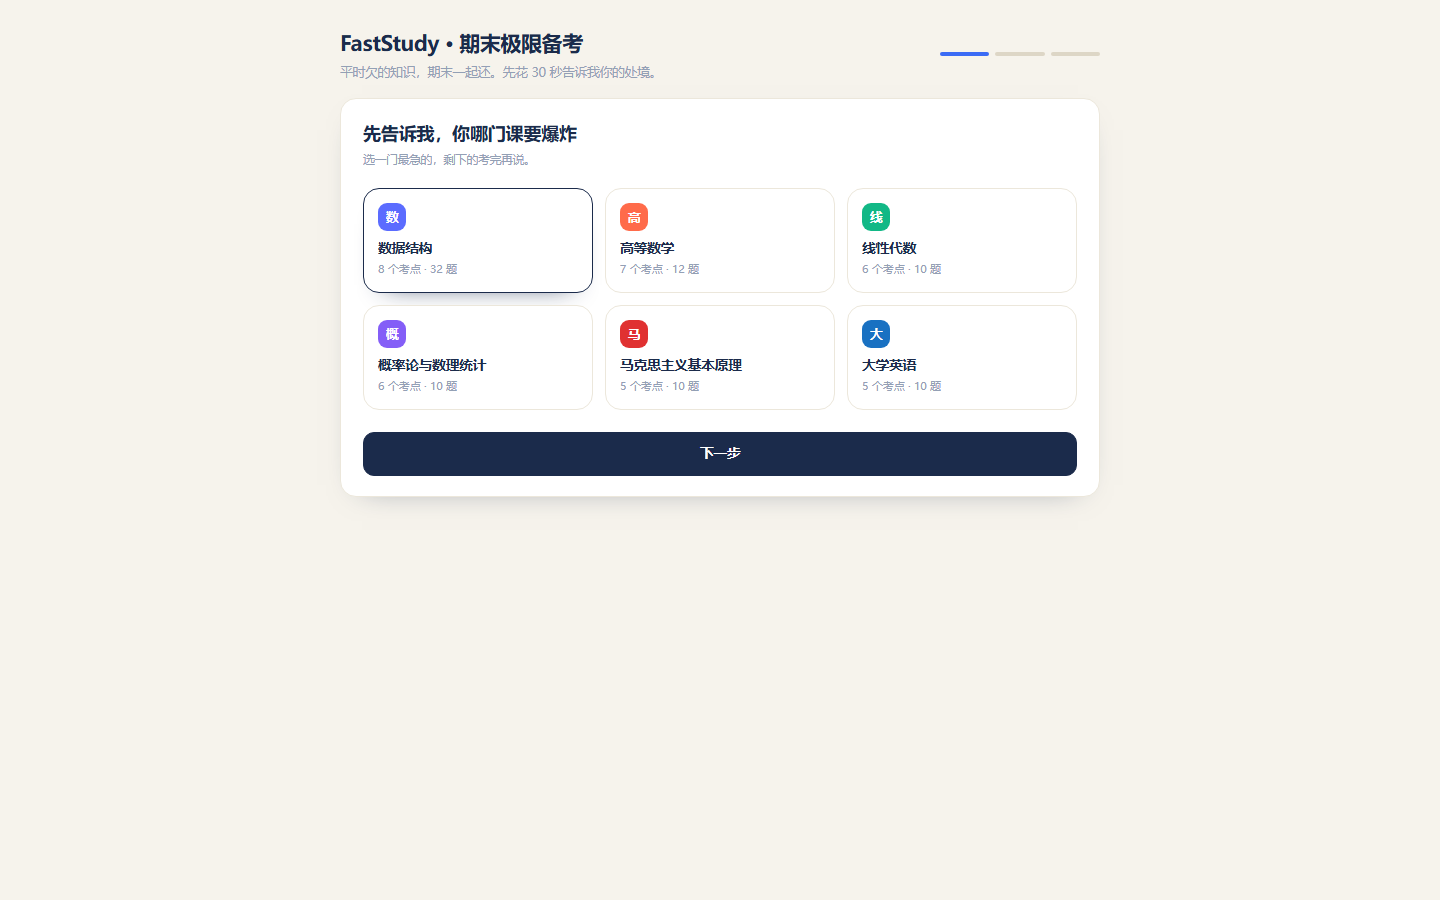
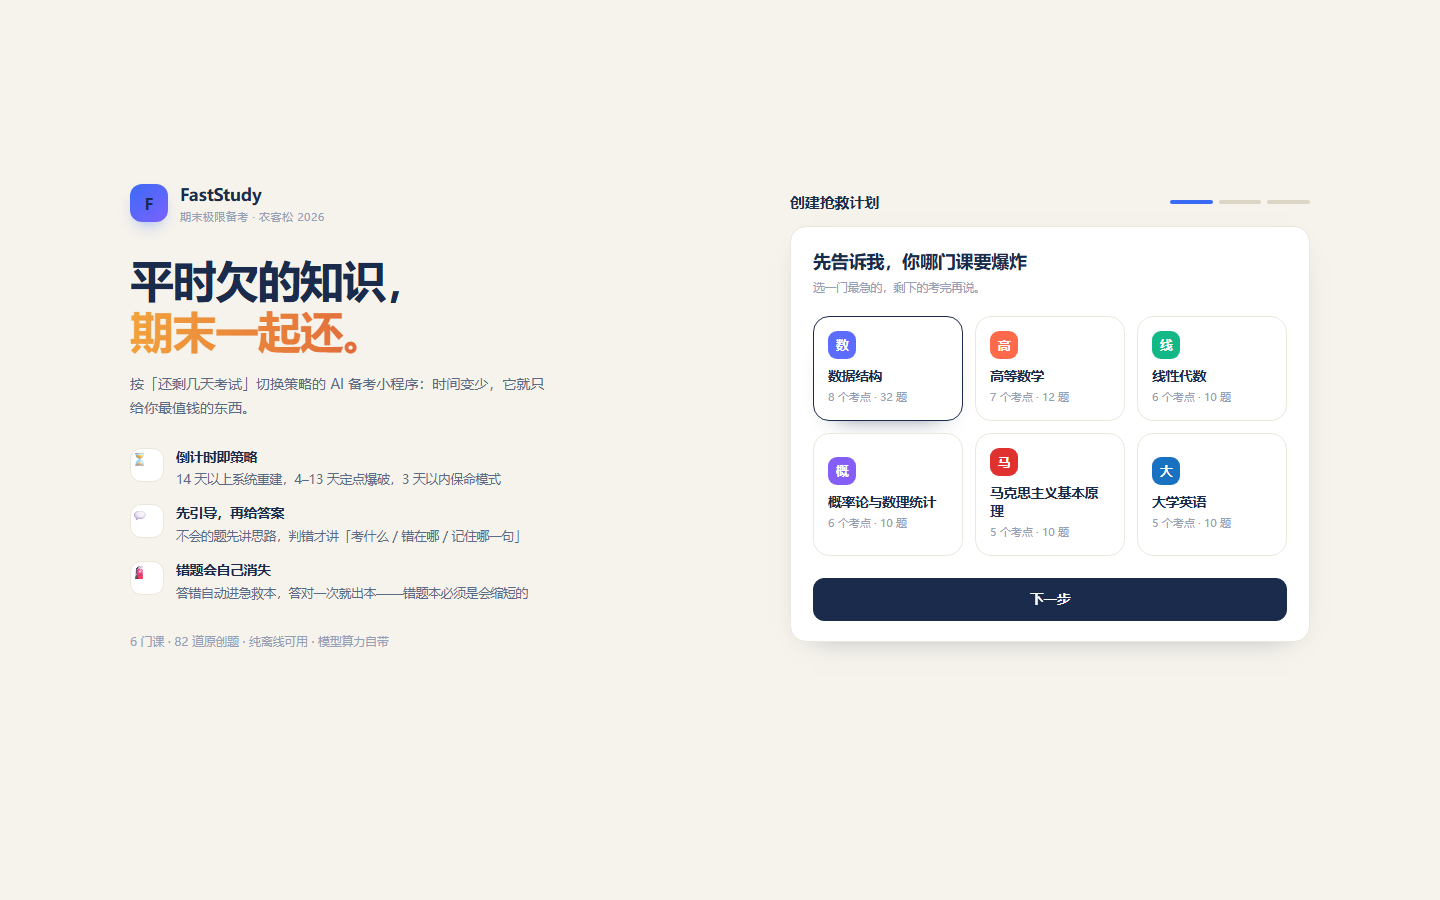
feat(ui): 引导页桌面版加左侧卖点面板（呼应封面图），移动端压缩标题

diff --git a/src/styles.css b/src/styles.css
@@ -1,4 +1,4 @@
-:root {
+:root {
   --bg: #f6f3ec;
   --bg-2: #efeae0;
   --card: #ffffff;
@@ -72,7 +72,7 @@ p {
   margin: 0;
 }
 
-/* ================= 甯冨眬楠ㄦ灦 ================= */
+/* ================= Layout shell ================= */
 .shell {
   display: grid;
   grid-template-columns: 216px minmax(0, 1fr);
@@ -274,7 +274,7 @@ p {
   min-width: 0;
 }
 
-/* ================= 鍗＄墖 ================= */
+/* ================= Cards ================= */
 .card {
   background: var(--card);
   border-radius: var(--r-lg);
@@ -320,7 +320,7 @@ p {
   text-decoration: none;
 }
 
-/* ================= 椤堕儴闂€欙紙灞辫剦妯箙锛?================= */
+/* ================= Hero banner (greeting) ================= */
 .hello {
   position: relative;
   border-radius: var(--r-xl);
@@ -388,7 +388,7 @@ p {
   color: rgba(255, 255, 255, 0.78);
 }
 
-/* ================= 鐜舰杩涘害 ================= */
+/* ================= Donut / legend ================= */
 .donut-wrap {
   display: flex;
   align-items: center;
@@ -431,7 +431,7 @@ p {
   font-variant-numeric: tabular-nums;
 }
 
-/* ================= 浠婃棩浠诲姟 ================= */
+/* ================= Today tasks ================= */
 .task-row {
   display: flex;
   align-items: flex-start;
@@ -510,7 +510,7 @@ p {
   background: linear-gradient(90deg, var(--amber), #ffc978);
 }
 
-/* ================= 鏈€杩戝涔?/ 缁熻 ================= */
+/* ================= Recent & stats ================= */
 .recent {
   display: flex;
   gap: 14px;
@@ -582,7 +582,7 @@ p {
   color: var(--ink-3);
 }
 
-/* ================= 瀛︿範璺緞鏃堕棿杞?================= */
+/* ================= Learning path timeline ================= */
 .path {
   display: flex;
   align-items: flex-start;
@@ -675,7 +675,7 @@ p {
   font-weight: 700;
 }
 
-/* ================= 鎺屾彙搴︽潯 ================= */
+/* ================= Mastery bars ================= */
 .mastery-row {
   display: flex;
   align-items: center;
@@ -716,7 +716,7 @@ p {
   font-variant-numeric: tabular-nums;
 }
 
-/* ================= 鍒楄〃 ================= */
+/* ================= List rows ================= */
 .row-item {
   display: flex;
   align-items: center;
@@ -800,7 +800,7 @@ p {
   color: var(--blue);
 }
 
-/* ================= 鎸夐挳 ================= */
+/* ================= Buttons ================= */
 .btn {
   display: inline-flex;
   align-items: center;
@@ -855,7 +855,7 @@ p {
   box-shadow: none;
 }
 
-/* ================= 寰界珷 / 鎻愮ず ================= */
+/* ================= Pills / notice ================= */
 .pill {
   display: inline-flex;
   align-items: center;
@@ -898,7 +898,7 @@ p {
   line-height: 1.6;
 }
 
-/* ================= 鍒烽 ================= */
+/* ================= Quiz ================= */
 .quiz-shell {
   max-width: 780px;
   margin: 0 auto;
@@ -1121,7 +1121,7 @@ p {
   line-height: 1.65;
 }
 
-/* ================= 寮曞椤?================= */
+/* ================= Onboarding ================= */
 .onboard {
   max-width: 760px;
   margin: 0 auto;
@@ -1297,7 +1297,7 @@ select:focus {
   border-color: var(--navy);
 }
 
-/* ================= 寮€鍏?================= */
+/* ================= Switch ================= */
 .switch {
   width: 44px;
   height: 25px;
@@ -1329,7 +1329,7 @@ select:focus {
   transform: translateX(19px);
 }
 
-/* ================= 鏉傞」 ================= */
+/* ================= Misc (rank / roadmap / empty) ================= */
 .muted {
   color: var(--ink-3);
   font-size: 11.5px;
@@ -1477,7 +1477,136 @@ select:focus {
   }
 }
 
-/* ================= 鍝嶅簲寮?================= */
+/* ================= Onboarding pitch ================= */
+.onboard-grid {
+  display: grid;
+  grid-template-columns: minmax(0, 1fr) 520px;
+  gap: 48px;
+  align-items: center;
+  max-width: 1180px;
+  margin: 0 auto;
+  width: 100%;
+  min-height: calc(100dvh - 120px);
+}
+
+.onboard-pitch {
+  min-width: 0;
+  padding: 8px 0;
+}
+
+.pitch-brand {
+  display: flex;
+  align-items: center;
+  gap: 12px;
+  margin-bottom: 28px;
+}
+
+.pitch-name {
+  font-size: 17px;
+  font-weight: 800;
+  letter-spacing: -0.01em;
+}
+
+.pitch-sub {
+  font-size: 11px;
+  color: var(--ink-3);
+  letter-spacing: 0.04em;
+}
+
+.pitch-title {
+  font-size: 44px;
+  line-height: 1.16;
+  font-weight: 800;
+  letter-spacing: -0.035em;
+  color: var(--navy);
+}
+
+.pitch-title em {
+  font-style: normal;
+  background: linear-gradient(100deg, #f2a33c, #e0653a);
+  -webkit-background-clip: text;
+  background-clip: text;
+  color: transparent;
+}
+
+.pitch-desc {
+  margin-top: 16px;
+  font-size: 14px;
+  color: var(--ink-2);
+  line-height: 1.75;
+  max-width: 420px;
+}
+
+.pitch-list {
+  margin-top: 26px;
+  display: flex;
+  flex-direction: column;
+  gap: 14px;
+}
+
+.pitch-item {
+  display: flex;
+  gap: 12px;
+  align-items: flex-start;
+}
+
+.pitch-ico {
+  width: 34px;
+  height: 34px;
+  border-radius: 11px;
+  background: #fff;
+  border: 1px solid var(--line);
+  display: grid;
+  place-items: center;
+  font-size: 16px;
+  flex: none;
+  box-shadow: var(--shadow);
+}
+
+.pitch-item b {
+  display: block;
+  font-size: 13.5px;
+  color: var(--navy);
+}
+
+.pitch-item span {
+  display: block;
+  font-size: 12.5px;
+  color: var(--ink-2);
+  line-height: 1.6;
+  margin-top: 1px;
+}
+
+.pitch-foot {
+  margin-top: 30px;
+  font-size: 11.5px;
+  color: var(--ink-3);
+  letter-spacing: 0.02em;
+}
+
+.only-mobile {
+  display: none;
+}
+
+@media (max-width: 1024px) {
+  .onboard-grid {
+    grid-template-columns: minmax(0, 1fr);
+    gap: 0;
+    min-height: 0;
+    max-width: 720px;
+  }
+  .onboard-pitch {
+    display: none;
+  }
+  .only-mobile {
+    display: block;
+  }
+  .hide-mobile {
+    display: none;
+  }
+}
+
+/* ================= Responsive ================= */
 @media (max-width: 1180px) {
   .dash {
     grid-template-columns: minmax(0, 1fr);

diff --git a/src/screens/Onboarding.tsx b/src/screens/Onboarding.tsx
@@ -25,20 +25,68 @@ export default function Onboarding({ onDone }: { onDone: () => void }) {
 
   return (
     <div className="main" style={{ paddingTop: 26 }}>
-      <div className="onboard">
-        <div className="topline">
-          <div>
-            <h1>FastStudy · 期末极限备考</h1>
-            <div className="sub">平时欠的知识，期末一起还。先花 30 秒告诉我你的处境。</div>
+      <div className="onboard-grid">
+        <aside className="onboard-pitch">
+          <div className="pitch-brand">
+            <div className="side-mark" style={{ width: 38, height: 38, borderRadius: 12 }}>
+              F
+            </div>
+            <div>
+              <div className="pitch-name">FastStudy</div>
+              <div className="pitch-sub">期末极限备考 · 农客松 2026</div>
+            </div>
           </div>
-          <div className="steps" style={{ width: 160, margin: 0 }}>
-            {[1, 2, 3].map((i) => (
-              <i key={i} className={i <= step ? 'on' : ''} />
-            ))}
+          <h1 className="pitch-title">
+            平时欠的知识，
+            <br />
+            <em>期末一起还。</em>
+          </h1>
+          <p className="pitch-desc">按「还剩几天考试」切换策略的 AI 备考小程序：时间变少，它就只给你最值钱的东西。</p>
+          <div className="pitch-list">
+            <div className="pitch-item">
+              <span className="pitch-ico">⏳</span>
+              <div>
+                <b>倒计时即策略</b>
+                <span>14 天以上系统重建，4–13 天定点爆破，3 天以内保命模式</span>
+              </div>
+            </div>
+            <div className="pitch-item">
+              <span className="pitch-ico">💬</span>
+              <div>
+                <b>先引导，再给答案</b>
+                <span>不会的题先讲思路，判错才讲「考什么 / 错在哪 / 记住哪一句」</span>
+              </div>
+            </div>
+            <div className="pitch-item">
+              <span className="pitch-ico">🧯</span>
+              <div>
+                <b>错题会自己消失</b>
+                <span>答错自动进急救本，答对一次就出本——错题本必须是会缩短的</span>
+              </div>
+            </div>
           </div>
-        </div>
+          <div className="pitch-foot">6 门课 · 82 道原创题 · 纯离线可用 · 模型算力自带</div>
+        </aside>
 
-        <div className="card pad-lg" style={{ marginTop: 16 }}>
+        <div className="onboard">
+          <div className="topline" style={{ marginBottom: 12 }}>
+            <div>
+              <h1 className="only-mobile" style={{ fontSize: 19 }}>
+                FastStudy
+              </h1>
+              <div className="sub only-mobile">期末极限备考 · 平时欠的知识，期末一起还。</div>
+              <div className="card-title hide-mobile" style={{ fontSize: 15 }}>
+                创建抢救计划
+              </div>
+            </div>
+            <div className="steps" style={{ width: 140, margin: 0 }}>
+              {[1, 2, 3].map((i) => (
+                <i key={i} className={i <= step ? 'on' : ''} />
+              ))}
+            </div>
+          </div>
+
+          <div className="card pad-lg">
           {step === 1 && (
             <>
               <div className="card-title" style={{ fontSize: 18 }}>
@@ -169,6 +217,7 @@ export default function Onboarding({ onDone }: { onDone: () => void }) {
                 生成抢救计划
               </button>
             )}
+          </div>
           </div>
         </div>
       </div>
